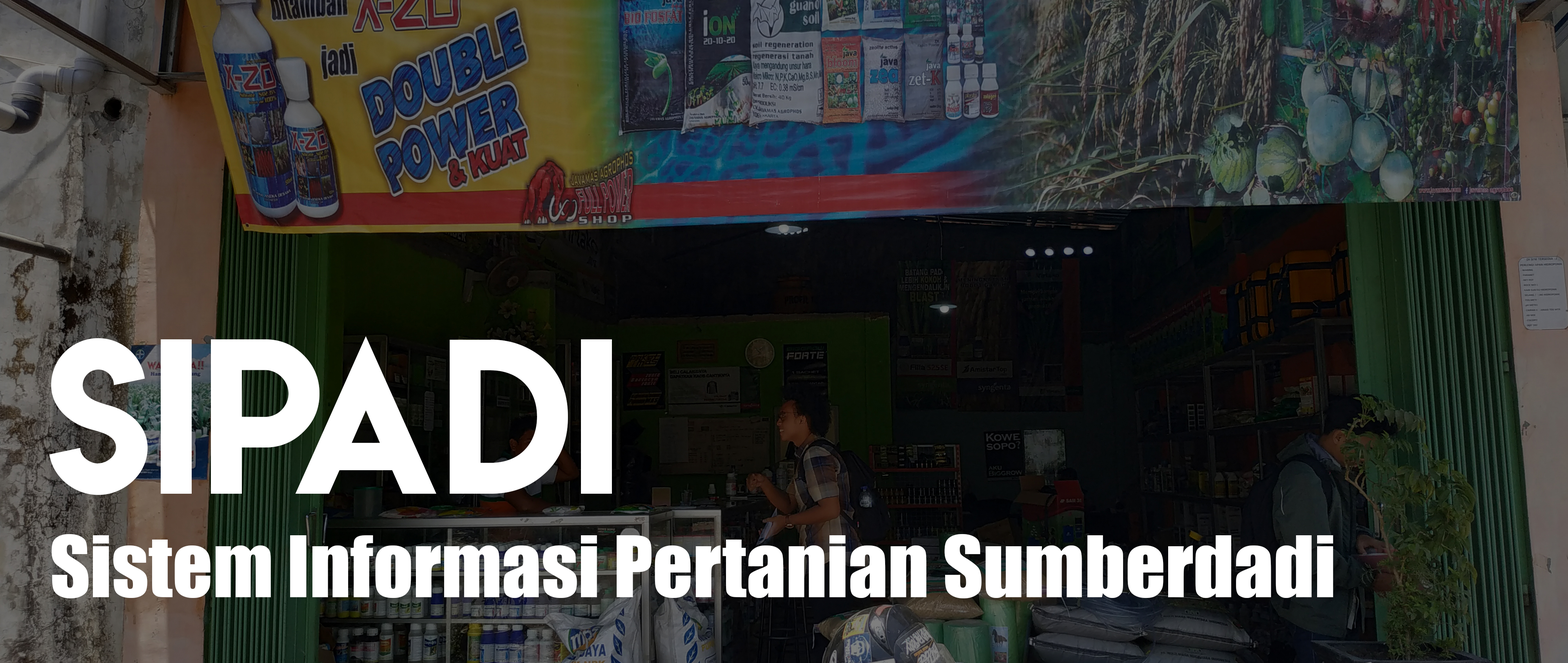
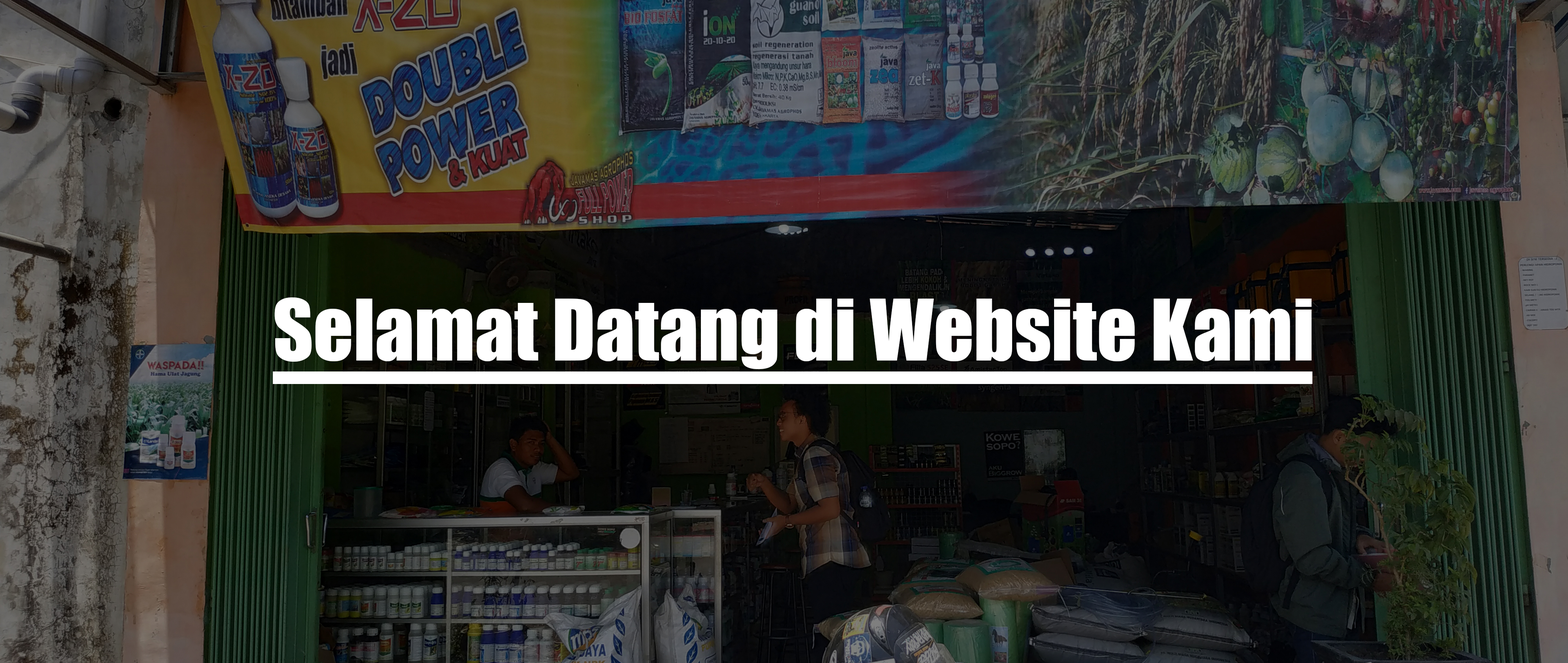
rubah gambar

Changed region(s): [[0.0312, 0.4303, 0.8438, 0.7683], [0.0312, 0.7991, 0.875, 0.922]]

diff --git a/E41181231_Yoga_Bayu_wandana/home/judul.html b/E41181231_Yoga_Bayu_wandana/home/judul.html
@@ -20,16 +20,11 @@
                 <li><a href="#">Home</a></li>
                 <li><a href="About.html">About us</a></li>
                 <li><a href="Contact.html">Contact us</a></li>
-                <li><a href="Blog.html">Blog</a></li>
+                <li><a href="Blog.html">Info</a></li>
+                <li><a href="daftar.html">Daftar</a></li>
+                <li><a href="login.html">Login</a></li>
               </ul>
-      </div>
-      <div class="login">
-          <a href="login.html">LOGIN</a>
-      </div>
-
-      <div class="daftar">
-        <a href="daftar.html">Daftar</a>
-    </div>
+      </div> 
     </div>
 
     <div id="slider">
@@ -150,7 +145,7 @@
               </div>
 
       </div>
-        
+    
       </div>
     </div>
     <div class="footer">

diff --git a/E41181231_Yoga_Bayu_wandana/home/stylee.css b/E41181231_Yoga_Bayu_wandana/home/stylee.css
@@ -45,7 +45,7 @@ html, body {
 .navigasi ul {
    text-align: center;
    margin: 0;
-    margin-left:370px;
+    margin-left:330px;
     padding: 0;
     overflow: hidden;
 }
